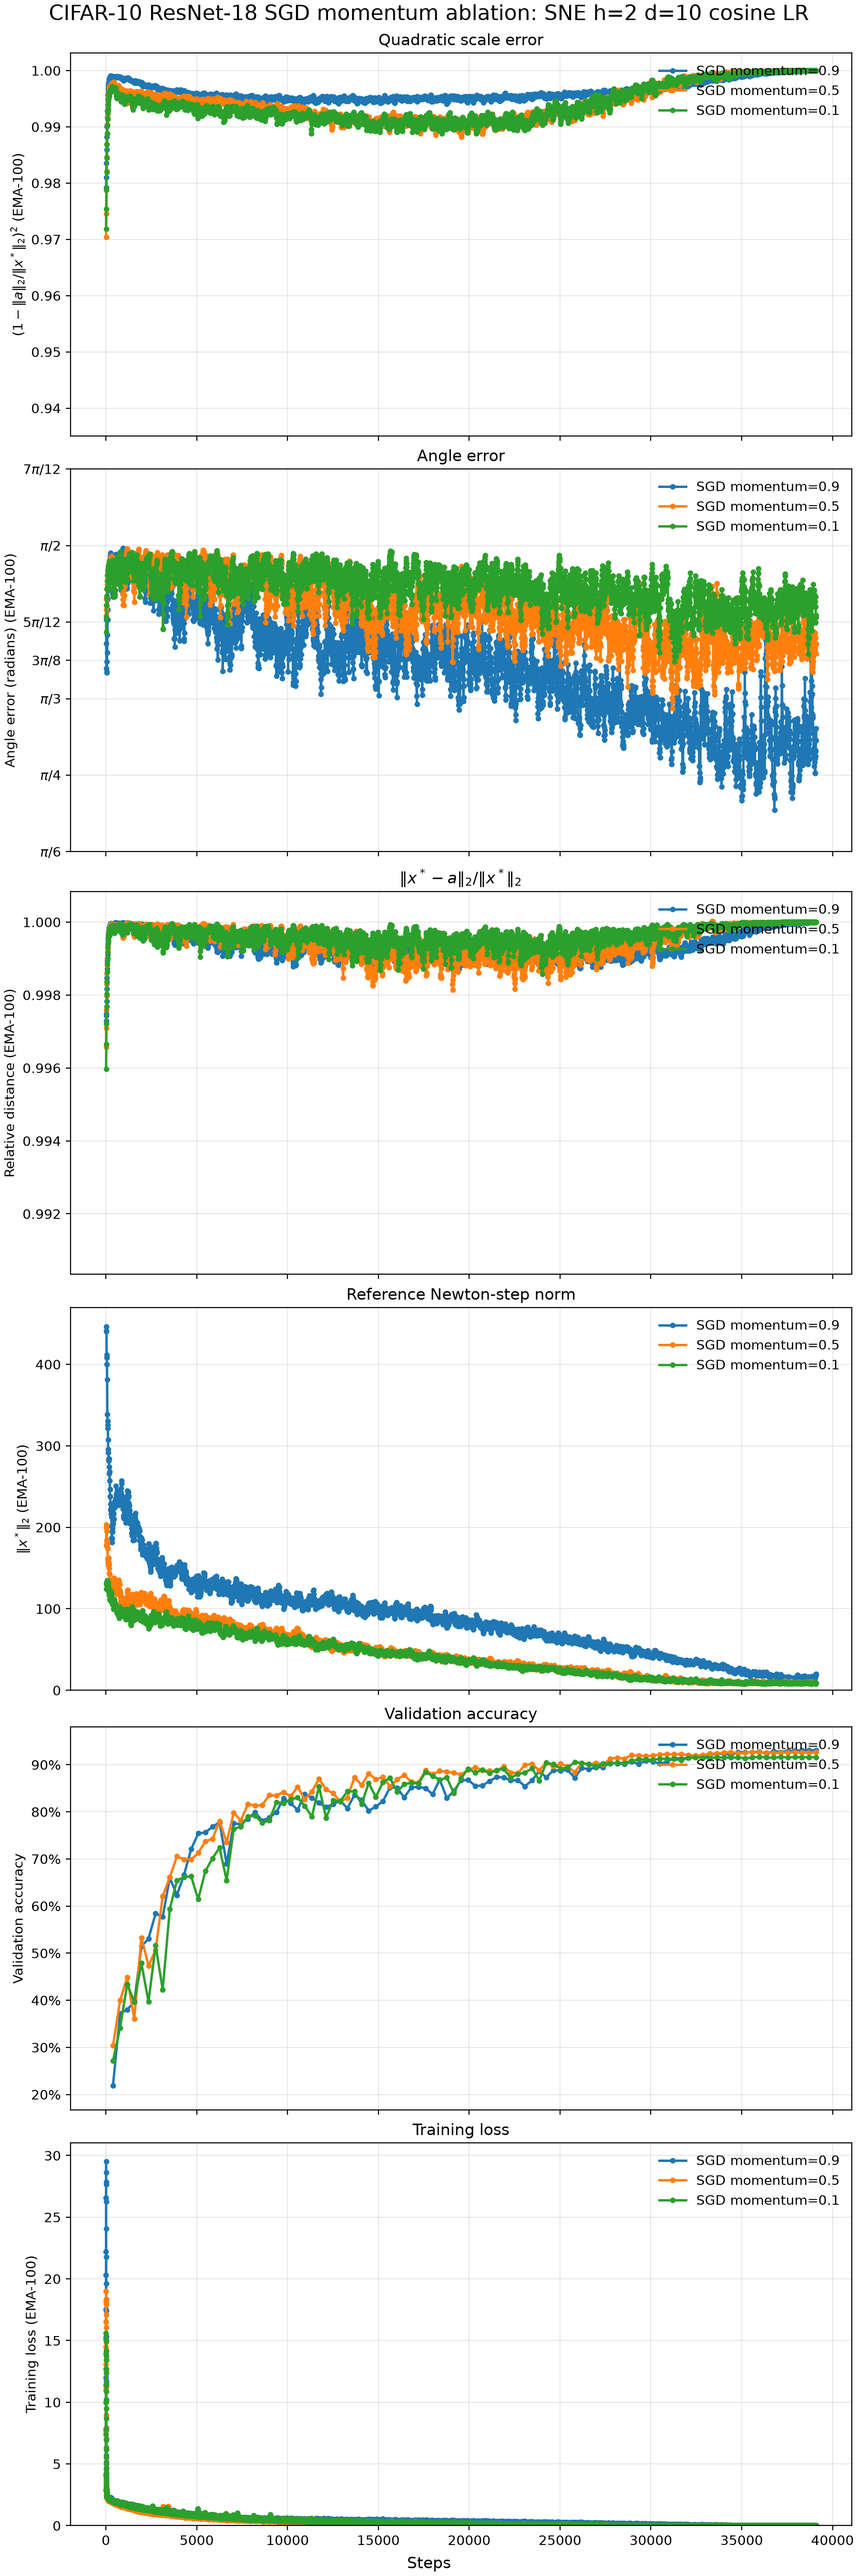
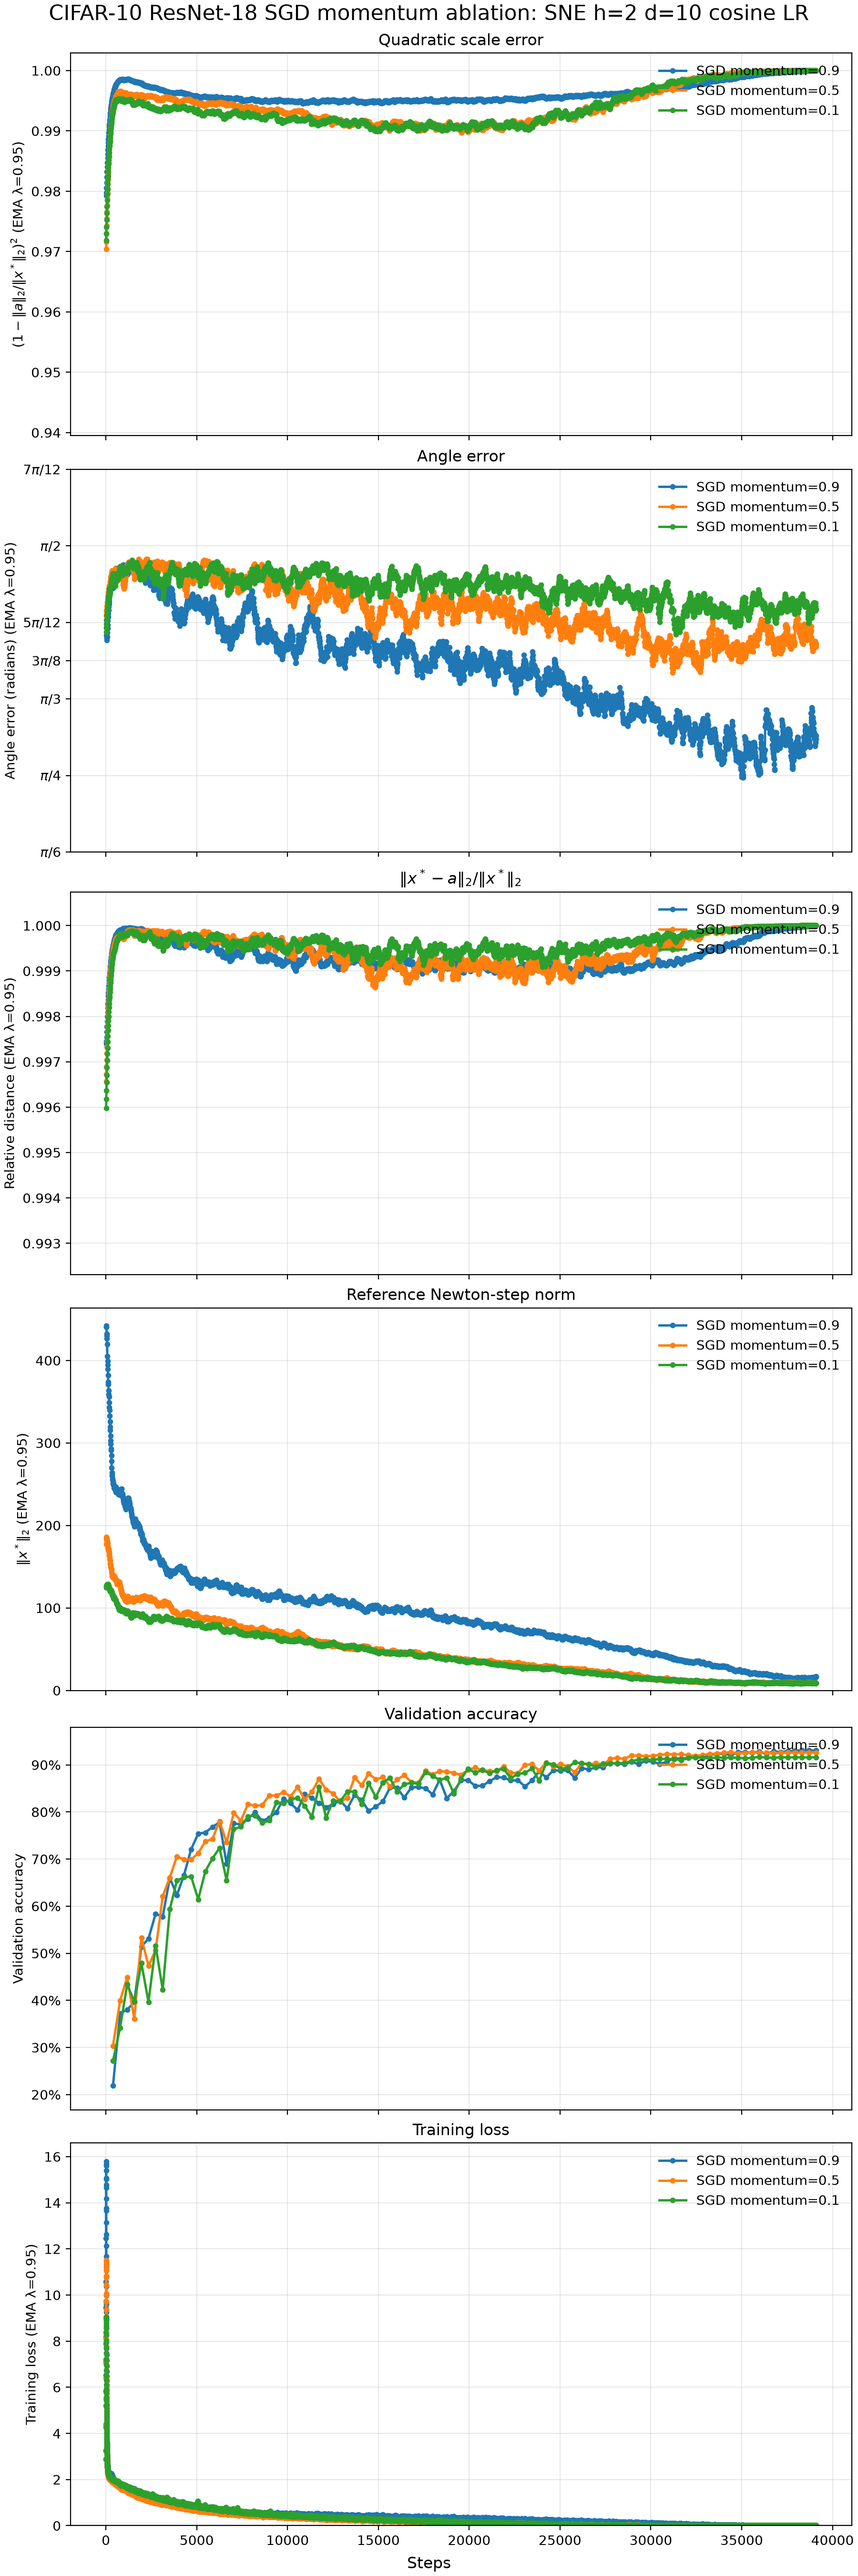
Replot dashboard with EMA lambda 0.95

diff --git a/index.html b/index.html
@@ -127,7 +127,7 @@
             per step and interval \(d=10\), hence sketch size \(m=20\). Training loss
             is recorded every step, the three geometric measurements every ten steps,
             and validation accuracy once per epoch. The geometric and training curves
-            use an EMA-100 with \(\lambda^{100}=10^{-8}\); validation remains unsmoothed. Scale is
+            use an EMA with \(\lambda=0.95\); validation remains unsmoothed. Scale is
             reported exclusively as \((1-\|a\|_2/\|x^*\|_2)^2\).
           </p>
         </header>
@@ -217,7 +217,7 @@
             momentum changes, leaving the auxiliary AdamW path fixed; for AdamW the
             sweep changes \(\beta_1\) while \(\beta_2=0.999\); for SGD it changes the
             conventional momentum coefficient. SNE again uses \(h=2\), \(d=10\), and
-            \(m=20\), with EMA-100 (\(\lambda^{100}=10^{-8}\)) applied only to geometry and training loss and raw
+            \(m=20\), with EMA (\(\lambda=0.95\)) applied only to geometry and training loss and raw
             validation accuracy retained at one observation per epoch.
           </p>
         </header>
@@ -317,7 +317,7 @@
             step, geometry every five steps, and validation cross-entropy over 200
             batches every 250 steps. The model remains in training mode while an RNG
             snapshot replays the forward-pass dropout realization inside estimator
-            closures. Geometry and training use EMA-100 (\(\lambda^{100}=10^{-8}\)), validation remains raw, and
+            closures. Geometry and training use EMA (\(\lambda=0.95\)), validation remains raw, and
             both task losses are shown as perplexity. Scale error is
             \((1-\|a\|_2/\|x^*\|_2)^2\).
           </p>

diff --git a/scripts/build_dashboard_plots.py b/scripts/build_dashboard_plots.py
@@ -31,7 +31,7 @@ LANGUAGE_METRICS = (
 )
 MOVING_AVERAGE_TYPES = ("simple", "exponential")
 DEFAULT_MOVING_AVERAGE_TYPE = "exponential"
-DEFAULT_MOVING_AVERAGE_EPSILON = 1.0e-8
+DEFAULT_EMA_LAMBDA = 0.95
 NONNEGATIVE_METRICS = {
     "quadratic_scale_distances",
     "relative_distances",
@@ -275,7 +275,7 @@ def plotted_values(
     *,
     perplexity: bool,
     moving_average_type: str,
-    moving_average_epsilon: float,
+    ema_lambda: float,
 ) -> tuple[float, ...]:
     from optibench.plot_training_results import moving_average
 
@@ -292,7 +292,7 @@ def plotted_values(
             values,
             window_size,
             kind=moving_average_type,
-            epsilon=moving_average_epsilon,
+            ema_lambda=ema_lambda,
         )
     if perplexity and metric in {"validation_losses", "train_losses"}:
         return tuple(math.exp(value) for value in plotted)
@@ -325,7 +325,7 @@ def shared_limits(
     default_window_size: int,
     *,
     moving_average_type: str,
-    moving_average_epsilon: float,
+    ema_lambda: float,
 ) -> tuple[dict[str, tuple[float, float]], dict[str, list[object]]]:
     from optibench.plot_training_results import read_optimizer_series
 
@@ -352,7 +352,7 @@ def shared_limits(
                         window_size,
                         perplexity=section.perplexity,
                         moving_average_type=moving_average_type,
-                        moving_average_epsilon=moving_average_epsilon,
+                        ema_lambda=ema_lambda,
                     )
                 )
     return (
@@ -369,17 +369,17 @@ def build(
     *,
     window_size: int = 100,
     moving_average_type: str = DEFAULT_MOVING_AVERAGE_TYPE,
-    moving_average_epsilon: float = DEFAULT_MOVING_AVERAGE_EPSILON,
+    ema_lambda: float = DEFAULT_EMA_LAMBDA,
 ) -> None:
     sys.path.insert(0, str(optibench_root / "src"))
     from optibench.plot_training_results import plot_optimizer_comparison
 
     manifest: dict[str, object] = {
         "scale_error": "quadratic",
-        "window_size": window_size,
+        "simple_moving_average_window_size": window_size,
         "moving_average_type": moving_average_type,
-        "moving_average_epsilon": moving_average_epsilon,
-        "section_window_sizes": {
+        "ema_lambda": ema_lambda,
+        "section_simple_window_sizes": {
             section.name: section.window_size or window_size for section in SECTIONS
         },
         "validation_smoothed": False,
@@ -392,15 +392,15 @@ def build(
             optibench_root,
             window_size,
             moving_average_type=moving_average_type,
-            moving_average_epsilon=moving_average_epsilon,
+            ema_lambda=ema_lambda,
         )
         output_dir = DASHBOARD_ROOT / section.output_dir
         output_dir.mkdir(parents=True, exist_ok=True)
         section_manifest = {
             "shared_y_limits": limits,
-            "window_size": section_window_size,
+            "simple_moving_average_window_size": section_window_size,
             "moving_average_type": moving_average_type,
-            "moving_average_epsilon": moving_average_epsilon,
+            "ema_lambda": ema_lambda,
             "perplexity": section.perplexity,
             "figures": [],
         }
@@ -414,7 +414,7 @@ def build(
                 output_dir=output_dir,
                 window_size=section_window_size,
                 moving_average_type=moving_average_type,
-                moving_average_epsilon=moving_average_epsilon,
+                ema_lambda=ema_lambda,
                 perplexity=section.perplexity,
                 scale_error="quadratic",
                 y_limits=limits,
@@ -451,10 +451,9 @@ def parse_args() -> argparse.Namespace:
         default=DEFAULT_MOVING_AVERAGE_TYPE,
     )
     parser.add_argument(
-        "--moving-average-epsilon",
-        "--ma-epsilon",
+        "--ema-lambda",
         type=float,
-        default=DEFAULT_MOVING_AVERAGE_EPSILON,
+        default=DEFAULT_EMA_LAMBDA,
     )
     return parser.parse_args()
 
@@ -465,5 +464,5 @@ if __name__ == "__main__":
         arguments.optibench_root.expanduser().resolve(),
         window_size=arguments.window_size,
         moving_average_type=arguments.moving_average_type,
-        moving_average_epsilon=arguments.moving_average_epsilon,
+        ema_lambda=arguments.ema_lambda,
     )

diff --git a/README.md b/README.md
@@ -14,10 +14,11 @@ The builder computes each row's limits from every curve in its section after
 that section's configured moving average, then supplies those same limits to every
 separate six-row figure. It writes the exact source paths and numeric limits to
 `assets/plots/manifest.json`. Validation curves remain unsmoothed, and scale
-error is always quadratic. Exponential moving average is the default, with
-`decay = epsilon ** (1 / window_size)` and `epsilon = 1e-8`; simple trailing
-moving average remains selectable. All active sections use EMA-100; the
-character-level Shakespeare section displays task losses as perplexity.
+error is always quadratic. Exponential moving average is the default and uses
+the directly specified decay `lambda = 0.95`; it is independent of window
+size. Simple trailing moving average remains selectable and uses the configured
+100-sample window. The character-level Shakespeare section displays task
+losses as perplexity.
 
 The figures used by the original dashboard are retained verbatim under
 `assets/archive/legacy-plots/` and are not referenced by the active page.
